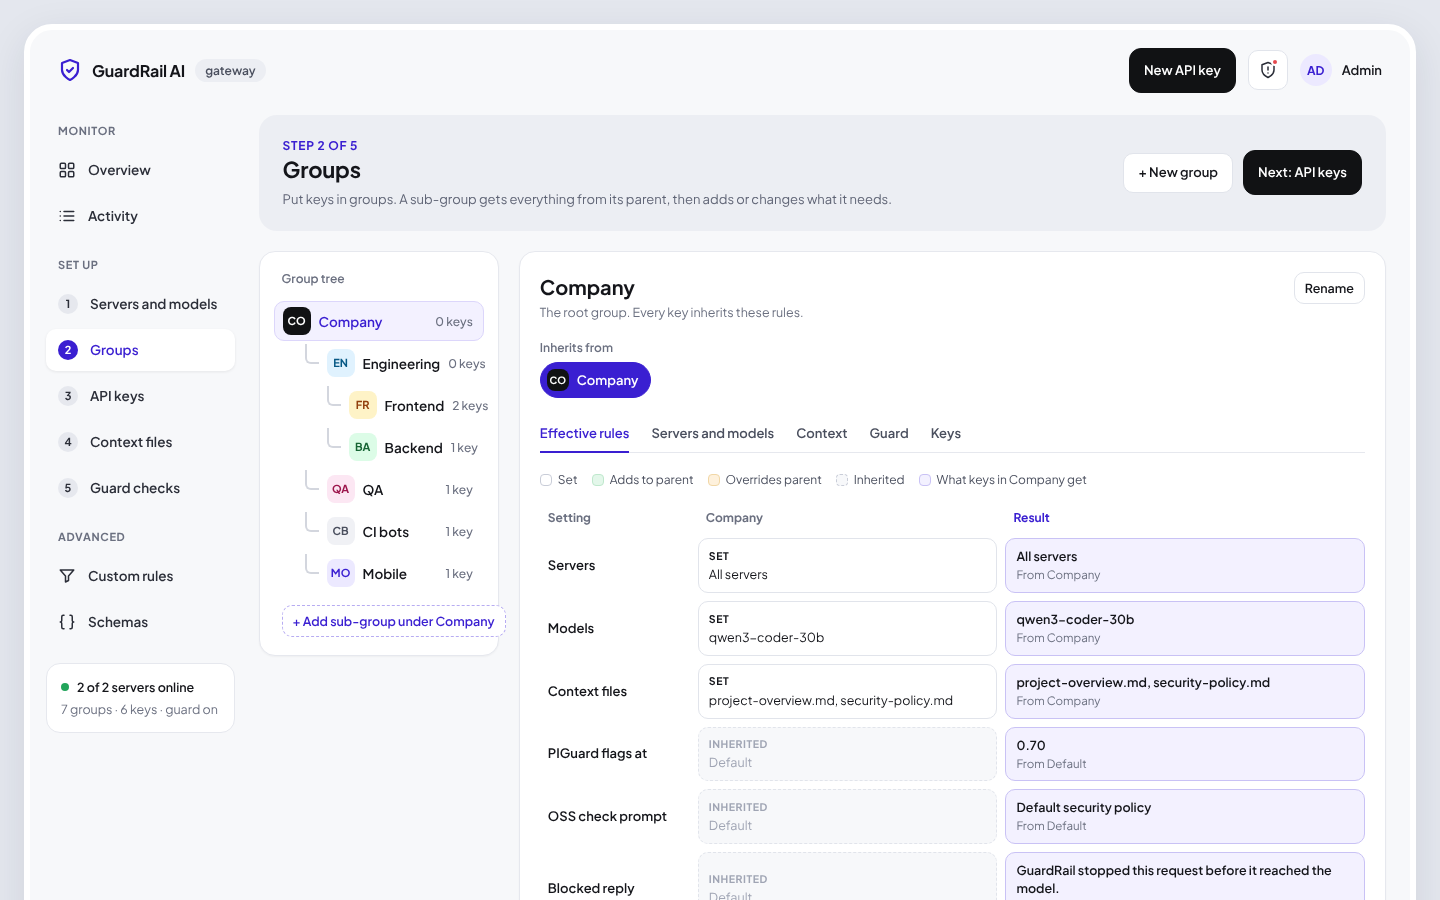
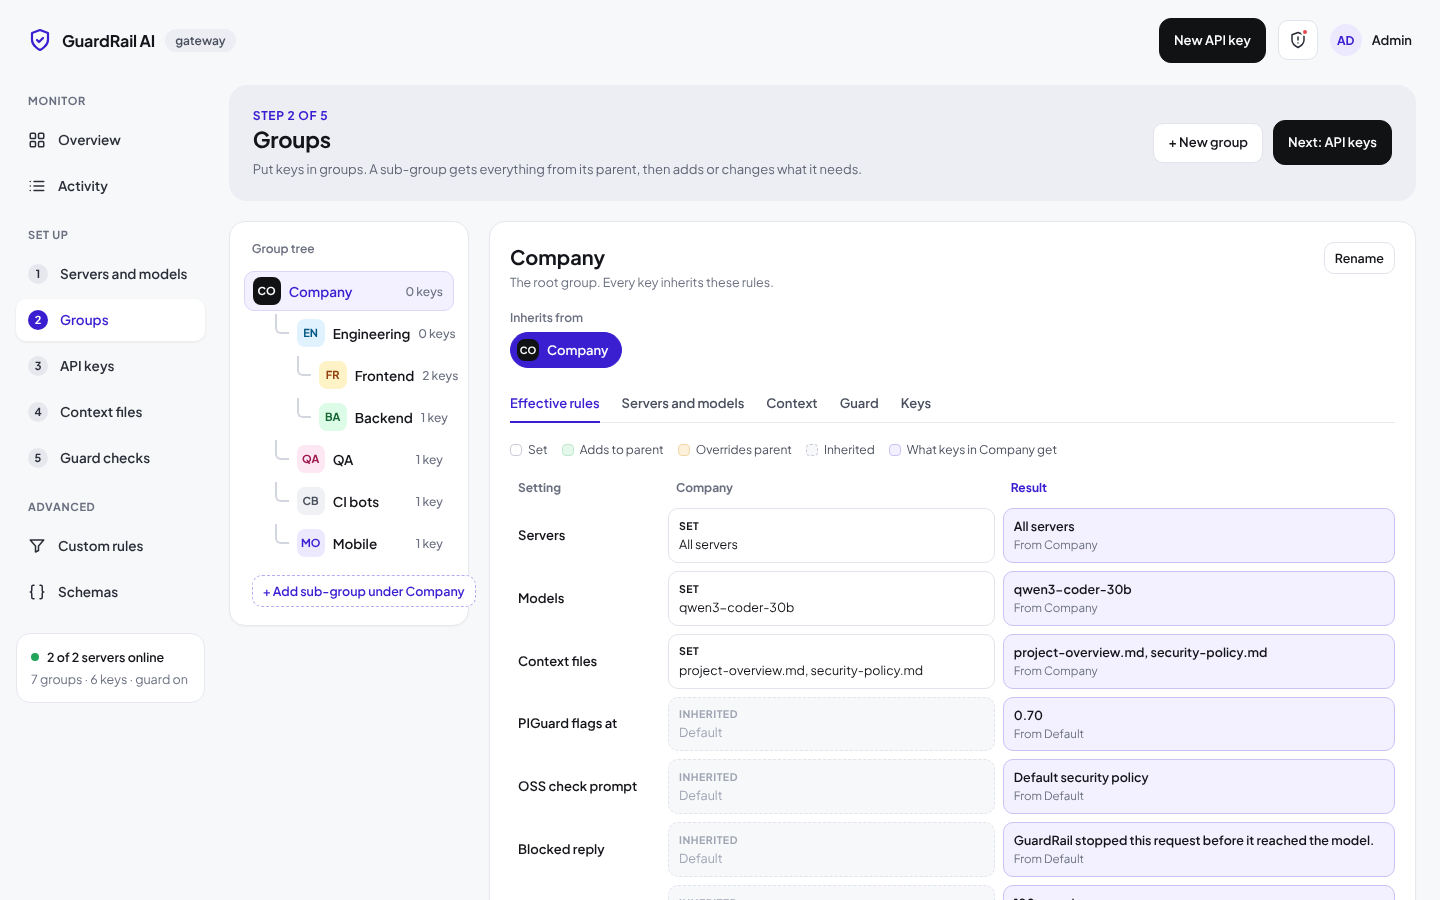
Remove the mockup's decorative frame around the app
The 24px padding, white border, rounded corners and shadow only showed a
screen in the mockup; the panel now fills the window.

Claude-Session: https://claude.ai/code/session_01DRDkDmNeTkDpXodzxXHcvd

diff --git a/src/app/globals.css b/src/app/globals.css
@@ -37,8 +37,8 @@ h1, h2, h3 { margin: 0; }
 button { font: inherit; }
 
 /* ---- shell ---- */
-.gr { min-height: 100vh; padding: 24px; }
-.app { background: var(--frame); border: 6px solid #fff; border-radius: 28px; box-shadow: 0 12px 40px rgba(30, 35, 60, .10); min-height: calc(100vh - 48px); overflow: hidden; }
+.gr { min-height: 100vh; background: var(--frame); }
+.app { background: var(--frame); min-height: 100vh; }
 .shell { display: flex; flex-wrap: wrap; }
 .side { flex: 1 1 220px; max-width: 260px; padding: 4px 12px 24px; }
 .main { flex: 999 1 560px; min-width: 0; display: flex; flex-direction: column; padding: 4px 24px 40px 8px; }
@@ -256,8 +256,6 @@ input[type=range] { width: 100%; accent-color: var(--accent); }
 
 /* ---- phones: sidebar becomes a scrolling row ---- */
 @media (max-width: 820px) {
-  .gr { padding: 8px; }
-  .app { border-radius: 18px; border-width: 3px; }
   .side { max-width: 100%; flex-basis: 100%; padding: 0 8px; }
   .main { padding: 4px 12px 32px; }
   .nav { flex-direction: row; overflow-x: auto; gap: 4px; padding: 0 0 8px; }
